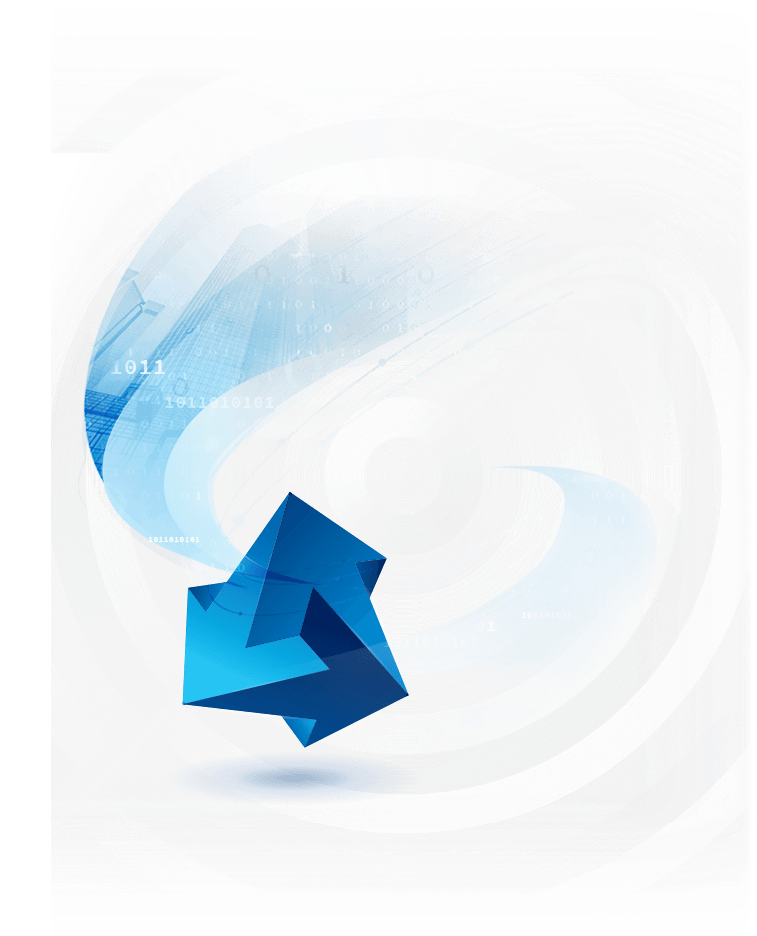
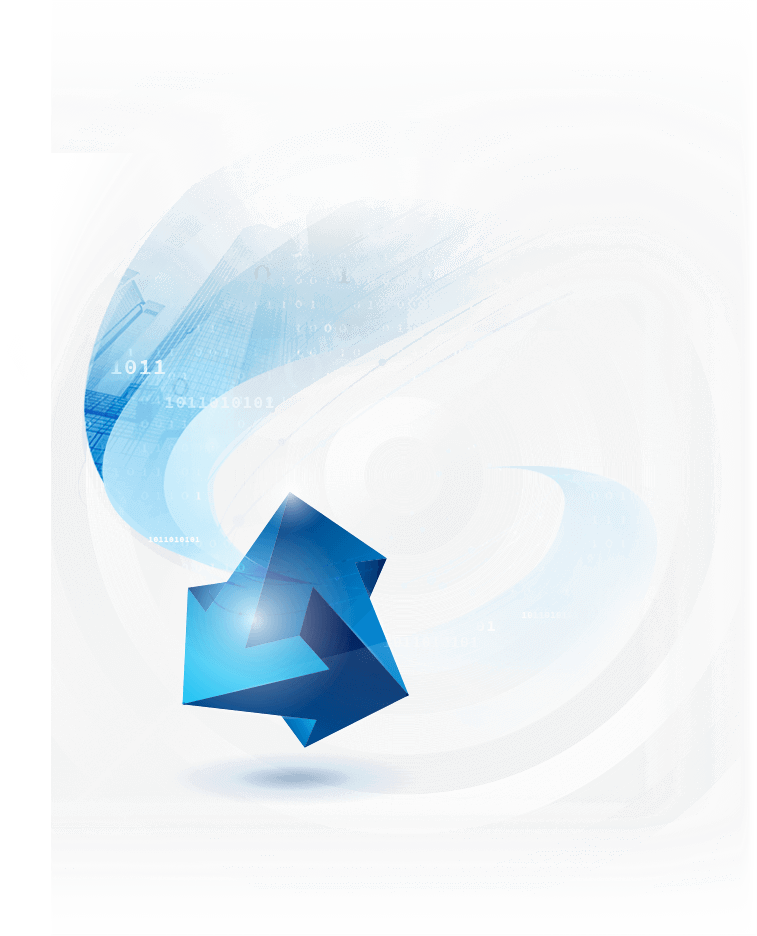
update mag

Changed region(s): [[0.2431, 0.5267, 0.4557, 0.7746]]

diff --git a/dsc/mag/css/mag201909/style.css b/dsc/mag/css/mag201909/style.css
@@ -1,3 +1,3 @@
-@-webkit-keyframes fadeIn{from{opacity:0}to{opacity:1}}@keyframes fadeIn{from{opacity:0}to{opacity:1}}[v-cloak]{display:none}.fade-enter-active,.fade-leave-active{-webkit-transition:opacity .5s;transition:opacity .5s}.fade-enter,.fade-leave-to{opacity:0}.lazyload,.lazyloading{opacity:0}.lazyloaded{opacity:1;-webkit-transition:opacity 1s;transition:opacity 1s}.dg.ac{z-index:99}main{min-width:360px;font-size:18px;line-height:1.6}main *:not(text){font-size:100%}main .container{margin:0 auto;padding:0 15px;max-width:1200px}@media (min-width: 361px){main .container{padding-right:20px;padding-left:20px}}@media (min-width: 1200px){main .container{padding-right:0;padding-left:0}}main .btn{-webkit-transition:all .15s ease-in-out;transition:all .15s ease-in-out}main a:link,main a:visited,main a:hover{color:inherit}main .video-container{position:relative;overflow:hidden;padding-top:56.25%;width:100%;height:0}main .video-container iframe{position:absolute;top:0;left:0;width:100%;height:100%}main .header{overflow:hidden;background-color:#f4f4f4}main .header .container{position:relative;margin:0 auto;padding-top:234px;padding-bottom:45px;max-width:1200px;background:url('../../images/mag201909/header-s.png') no-repeat 50% -205px}@media (min-width: 768px){main .header .container{padding-top:55px;padding-bottom:95px;background-image:url('../../images/mag201909/header-m.png');background-position:calc(50% - 140px) -140px}}@media (min-width: 1200px){main .header .container{padding-bottom:45px;background-image:url('../../images/mag201909/header-bg.png');background-position:0 -290px}}main .header .content{display:-webkit-box;display:-ms-flexbox;display:flex;-webkit-box-orient:vertical;-webkit-box-direction:normal;-ms-flex-direction:column;flex-direction:column;margin:0 auto;-webkit-box-align:center;-ms-flex-align:center;align-items:center}@media (min-width: 768px){main .header .content{max-width:369px;-webkit-transform:translateX(150px);transform:translateX(150px);-webkit-box-align:end;-ms-flex-align:end;align-items:flex-end}}@media (min-width: 1200px){main .header .content{margin-right:0;max-width:427px;-webkit-transform:translateX(0);transform:translateX(0);-webkit-box-align:start;-ms-flex-align:start;align-items:flex-start}}main .header .content-text h2{margin-bottom:13px;letter-spacing:.05em;line-height:1}@media (min-width: 1200px){main .header .content-text h2{font-size:20px}}main .header .content-text h1{width:298px}@media (min-width: 1200px){main .header .content-text h1{width:334px}}main .header .content-text p{margin:1em 0 .5em;color:#2c2321;letter-spacing:.05em;font-size:16px;line-height:1.3}@media (min-width: 768px){main .header .content-text p{margin-top:1.5em;margin-bottom:1em}}main .header .content-text strong{display:block;margin-bottom:40px;color:#e60033;letter-spacing:.01em;font-style:italic;font-size:20px;line-height:1}@media (min-width: 768px){main .header .content-text strong{margin-bottom:50px}}@media (min-width: 1200px){main .header .content-text strong{margin-bottom:60px;font-size:22px}}main .header .content-nav{display:-webkit-box;display:-ms-flexbox;display:flex;margin:0 -2.5px;width:100%;-ms-flex-wrap:wrap;flex-wrap:wrap}@media (min-width: 768px){main .header .content-nav{margin-right:-3.5px;margin-left:-3.5px}}main .header .content-nav a{position:relative;display:block;margin:2.5px;width:calc((100% - 20px) / 4);height:33px;border-radius:3px;background-color:#80d1f8;text-align:center;font-size:15px;line-height:33px}@media (min-width: 1200px){main .header .content-nav a{margin:3.5px;width:calc((100% - 28px) / 4);height:43px;font-size:18px;line-height:43px}}main .header .content-nav a::after{position:absolute;right:0;bottom:0;width:0;height:0;border-width:0 0 14px 14px;border-style:solid;border-color:transparent transparent #005396 transparent;content:''}html.no-mobile main .header a:hover{background-color:#005396;color:#fff}main .carousel1{position:absolute;left:50%;-webkit-transform:translateX(-50%);transform:translateX(-50%)}@media (max-width: 1300px){main .carousel1{position:static;left:auto;-webkit-transform:translateX(0);transform:translateX(0)}}main .carousel1 .swiper-container{padding-right:0;padding-bottom:77px;padding-left:0;max-width:none;width:1800px}@media (max-width: 1300px){main .carousel1 .swiper-container{width:100%}}main .carousel1 .swiper-slide{-webkit-transition:-webkit-transform .4s;transition:-webkit-transform .4s;transition:transform .4s;transition:transform .4s, -webkit-transform .4s;-webkit-transform:scale(0.7);transform:scale(0.7)}@media (max-width: 1300px){main .carousel1 .swiper-slide{padding-right:20px;padding-left:20px;-webkit-transform:none;transform:none}}@media (max-width: 360px){main .carousel1 .swiper-slide{padding-right:15px;padding-left:15px}}main .carousel1 .swiper-slide::before{position:absolute;top:0;right:0;bottom:0;left:0;z-index:1;border-radius:10px;background-color:rgba(13,12,18,0.5);content:'';-webkit-transition:background-color .2s;transition:background-color .2s}@media (max-width: 1300px){main .carousel1 .swiper-slide::before{display:none}}html.no-mobile main .vueSwiper .swiper-slide:hover::before{background-color:rgba(13,12,18,0.3)}main .carousel1 .swiper-slide-active,main .carousel1 .swiper-slide-next+.swiper-slide{cursor:pointer}@media (max-width: 1300px){main .carousel1 .swiper-slide-active,main .carousel1 .swiper-slide-next+.swiper-slide{cursor:default;pointer-events:none}}main .carousel1 .swiper-slide-active{-webkit-transform:scale(0.7) translateX(150px);transform:scale(0.7) translateX(150px);-webkit-transform-origin:100% 50% 0;transform-origin:100% 50% 0}@media (max-width: 1300px){main .carousel1 .swiper-slide-active{-webkit-transform:none;transform:none}}main .carousel1 .swiper-slide-next+.swiper-slide{-webkit-transform:scale(0.7) translateX(-150px);transform:scale(0.7) translateX(-150px);-webkit-transform-origin:0 50% 0;transform-origin:0 50% 0}@media (max-width: 1300px){main .carousel1 .swiper-slide-next+.swiper-slide{-webkit-transform:none;transform:none}}main .carousel1 .swiper-slide-next{position:relative;z-index:1;opacity:1;-webkit-transform:scale(1);transform:scale(1)}main .carousel1 .swiper-slide-next::before{display:none}main .carousel1 .swiper-pagination{bottom:33px;display:-webkit-box;display:-ms-flexbox;display:flex;line-height:14px;-webkit-box-pack:center;-ms-flex-pack:center;justify-content:center}@media (max-width: 1300px){main .carousel1 .swiper-pagination{bottom:45px}}main .carousel1 .swiper-pagination-bullet{margin:0 3px !important;width:14px;height:14px;border-radius:0;background-color:#bbb;opacity:1}@media (max-width: 1300px){main .carousel1 .swiper-pagination-bullet{width:12px;height:12px}}main .carousel1 .swiper-pagination-bullet-active{background-color:#239995}main .carousel1 .swiper-button-prev,main .carousel1 .swiper-button-next{width:36px;background-size:contain;-webkit-transform:translateY(-38.5px);transform:translateY(-38.5px)}@media (max-width: 1300px){main .carousel1 .swiper-button-prev,main .carousel1 .swiper-button-next{width:27px}}main .carousel1 .swiper-button-prev{left:265px;background-image:url('../../images/mag201909/carousel-prev.svg')}@media (max-width: 1300px){main .carousel1 .swiper-button-prev{left:0}}main .carousel1 .swiper-button-next{right:265px;background-image:url('../../images/mag201909/carousel-next.svg')}@media (max-width: 1300px){main .carousel1 .swiper-button-next{right:0}}main .carousel1 .slideItem{display:-webkit-box;display:-ms-flexbox;display:flex;margin:0 auto;padding:40px;max-width:600px;border-radius:10px;background-color:#239995;-webkit-box-pack:center;-ms-flex-pack:center;justify-content:center}@media (max-width: 1300px){main .carousel1 .slideItem{padding:22px}}main .carousel1 .slideItem-img{-ms-flex-negative:0;flex-shrink:0}@media (max-width: 1300px){main .carousel1 .slideItem-img{width:100px}}main .carousel1 .slideItem-text{padding-left:6px}main .carousel1 .slideItem p{font-size:22px;line-height:30px}@media (max-width: 1300px){main .carousel1 .slideItem p{font-size:16px;line-height:20px}}main .carousel1 .slideItem p:first-child{margin-bottom:1em;color:#ffe402;font-weight:bold}main .carousel1 .slideItem p:last-child{color:#fff}main .carousel2 .swiper-container{padding-bottom:97px}@media (min-width: 1200px){main .carousel2 .swiper-container{padding-bottom:0}}@media (min-width: 1200px){main .carousel2 .swiper-wrapper{-ms-flex-wrap:wrap;flex-wrap:wrap;-webkit-box-pack:justify;-ms-flex-pack:justify;justify-content:space-between}}main .carousel2 .swiper-slide{padding:0 15px;-webkit-transition:-webkit-transform .5s;transition:-webkit-transform .5s;transition:transform .5s;transition:transform .5s, -webkit-transform .5s;-webkit-transform:translate3d(0, 100px, 0) scale(0.6);transform:translate3d(0, 100px, 0) scale(0.6)}@media (min-width: 361px){main .carousel2 .swiper-slide{padding-right:20px;padding-left:20px}}@media (min-width: 1200px){main .carousel2 .swiper-slide{margin-top:20px;margin-bottom:20px;padding-right:0;padding-left:0;width:520px;height:650px}main .carousel2 .swiper-slide:nth-child(-n+2){margin-top:0}main .carousel2 .swiper-slide:nth-last-child(-n+2){margin-bottom:0}main .carousel2 .swiper-slide:nth-child(1){margin-top:300px}main .carousel2 .swiper-slide:nth-child(even):not(:nth-child(2)){margin-top:-280px}}main .carousel2 .swiper-slide.active{-webkit-transform:translate3d(0, 0, 0) scale(1);transform:translate3d(0, 0, 0) scale(1)}main .carousel2 .swiper-pagination{bottom:63px;display:-webkit-box;display:-ms-flexbox;display:flex;line-height:14px;-webkit-box-pack:center;-ms-flex-pack:center;justify-content:center}@media (min-width: 1200px){main .carousel2 .swiper-pagination{display:none}}main .carousel2 .swiper-pagination-bullet{margin:0 3px !important;width:14px;height:14px;border-radius:0;background-color:#bbb;opacity:1}main .carousel2 .swiper-pagination-bullet-active{background-color:#0083be}main .carousel2 .swiper-button-prev,main .carousel2 .swiper-button-next{width:27px;background-size:contain;-webkit-transform:translateY(-48.5px);transform:translateY(-48.5px)}@media (min-width: 1200px){main .carousel2 .swiper-button-prev,main .carousel2 .swiper-button-next{display:none}}main .carousel2 .swiper-button-prev{left:0;background-image:url('../../images/mag201909/carousel-prev.svg')}main .carousel2 .swiper-button-next{right:0;background-image:url('../../images/mag201909/carousel-next.svg')}main .carousel2 .slideItem{margin:0 auto;max-width:520px;height:100%;background-color:#0083be}main .carousel2 .slideItem-text{padding:16px 20px 28px}@media (min-width: 1200px){main .carousel2 .slideItem-text{padding:30px}}main .carousel2 .slideItem h2{display:inline-block;margin-bottom:.5em;padding:0 5px;border:1px solid #58e2e0;color:#58e2e0;font-size:14px;line-height:16px}@media (min-width: 1200px){main .carousel2 .slideItem h2{padding-right:7px;padding-left:7px;font-size:16px;line-height:23px}}main .carousel2 .slideItem h1{margin-bottom:.7em;color:#fedd42;letter-spacing:.01em;font-weight:bold;font-size:20px;line-height:24px}@media (min-width: 1200px){main .carousel2 .slideItem h1{font-size:24px;line-height:30px}}main .carousel2 .slideItem p{margin-bottom:1em;color:#fff;letter-spacing:.01em;font-size:16px;line-height:20px}@media (min-width: 1200px){main .carousel2 .slideItem p{font-size:18px;line-height:26px}}main .carousel2 .slideItem a{display:block;height:30px;border-radius:0;background-color:#fedd42;color:#3183a9;text-align:center;line-height:30px;width:70px;color:#3183a9;border:1px solid #fedd42;letter-spacing:.01em;font-size:14px;line-height:28px}main .carousel2 .slideItem a:link,main .carousel2 .slideItem a:visited{color:#3183a9}@media (min-width: 1200px){main .carousel2 .slideItem a{width:100px;font-size:18px}}html.no-mobile main .carousel2 .slideItem a:hover{background-color:transparent;color:#fedd42}main .articles{overflow:hidden}main .articles section{display:-webkit-box;display:-ms-flexbox;display:flex;-webkit-box-orient:vertical;-webkit-box-direction:normal;-ms-flex-direction:column;flex-direction:column;margin:0 auto;max-width:740px;background-position:50% -40px;background-repeat:no-repeat;opacity:0;-webkit-transition:opacity 1s, -webkit-transform .7s;transition:opacity 1s, -webkit-transform .7s;transition:transform .7s, opacity 1s;transition:transform .7s, opacity 1s, -webkit-transform .7s}@media (min-width: 1200px){main .articles section{-webkit-box-orient:horizontal;-webkit-box-direction:normal;-ms-flex-direction:row;flex-direction:row;max-width:none;height:380px;background-position:calc(50% - 590px) 0;-webkit-box-pack:center;-ms-flex-pack:center;justify-content:center}main .articles section:nth-of-type(odd){-webkit-transform:translateX(-100%);transform:translateX(-100%)}main .articles section:nth-of-type(even){background-position-x:calc(50% + 590px);-webkit-transform:translateX(100%);transform:translateX(100%)}}main .articles section.active{opacity:1;-webkit-transform:translateX(0);transform:translateX(0)}main .articles section header{height:300px}@media (min-width: 1200px){main .articles section header{width:410px;height:auto}}@media (min-width: 1200px){main .articles section:nth-of-type(even) header{-webkit-box-ordinal-group:2;-ms-flex-order:1;order:1}}main .articles section header .container{display:-webkit-box;display:-ms-flexbox;display:flex;-webkit-box-orient:vertical;-webkit-box-direction:normal;-ms-flex-direction:column;flex-direction:column;height:100%;-webkit-box-pack:center;-ms-flex-pack:center;justify-content:center}@media (min-width: 1200px){main .articles section:nth-of-type(odd) header .container{padding-right:120px}main .articles section:nth-of-type(even) header .container{padding-left:105px}}main .articles section header h1{color:#f6ff00;font-weight:bold;font-size:26px;line-height:1}@media (min-width: 1200px){main .articles section header h1{font-size:30px}}main .articles section header p{margin-top:1em;color:#fff;line-height:26px}main .articles .list{padding-top:20px;padding-bottom:60px;background-color:#eee}@media (min-width: 1200px){main .articles .list{padding-top:35px;padding-bottom:35px;width:790px}}main .articles .list .container{display:-webkit-box;display:-ms-flexbox;display:flex;-ms-flex-wrap:wrap;flex-wrap:wrap}@media (min-width: 1200px){main .articles .list .container{margin:-10px -15px;height:100%;-ms-flex-line-pack:center;align-content:center}}main .articles .list li{width:100%}@media (min-width: 1200px){main .articles .list li{padding:10px 15px;width:50%}}main .articles .list li+li{margin-top:10px}@media (min-width: 1200px){main .articles .list li+li{margin-top:0}}main .articles .list a{display:-webkit-box;display:-ms-flexbox;display:flex}html.no-mobile main .articles .list a:hover .list-title{text-decoration:underline}main .articles .list-img{-ms-flex-negative:0;flex-shrink:0}main .articles .list-text{padding-left:5px}main .articles .list-text br{display:none}@media (min-width: 1200px){main .articles .list-text br{display:block}}main .articles .list-subtitle{margin-bottom:.5em;font-size:14px;line-height:18px}@media (min-width: 1200px){main .articles .list-subtitle{font-size:16px;line-height:20px}}main .articles .list-subtitle:empty{display:none}main .articles .list-title{color:#d40000;line-height:24px}main .section1{position:relative;overflow:hidden;padding-top:60px;padding-bottom:475px;background-color:#b1e2e8}@media (max-width: 1300px){main .section1{padding-top:40px;padding-bottom:0}}main .section1 hgroup{margin-bottom:1.5em;text-align:center}@media (max-width: 1300px){main .section1 hgroup{margin-bottom:1em}}main .section1 h2{color:#2c2c2c;font-size:30px;line-height:1}@media (max-width: 1300px){main .section1 h2{font-size:18px}}main .section1 h1{color:#1a2538;font-weight:bold;font-size:40px}@media (max-width: 1300px){main .section1 h1{font-size:26px}}main .section2{padding-top:40px;padding-bottom:50px;background-color:#1a2538}@media (min-width: 1200px){main .section2{padding-top:55px;padding-bottom:65px;background-image:url('../../images/mag201909/section2-bg-top.png'),url('../../images/mag201909/section2-bg-bottom.png');background-position:calc(50% - 350px) -350px,calc(50% + 350px) 100%;background-repeat:no-repeat}}main .section2>.container{padding-right:0;padding-left:0;max-width:none}@media (min-width: 1200px){main .section2>.container{position:relative;padding-right:30px;padding-left:30px;max-width:1200px}}main .section2>.container>h1{margin-bottom:30px;color:#f6ff00;text-align:center;letter-spacing:.05em;font-weight:bold;font-size:26px;line-height:1}@media (min-width: 1200px){main .section2>.container>h1{position:absolute;margin-top:88px;margin-bottom:0;width:520px;font-size:50px}}@media (min-width: 1200px){main .section2 .toolbar{position:absolute;right:20px;bottom:60px;z-index:1;max-width:none;width:520px}}@media (min-width: 1200px){main .section2 .toolbar .container{-ms-flex-pack:distribute;justify-content:space-around}main .section2 .toolbar .container::before,main .section2 .toolbar .container::after{content:''}}main .section3{background-color:#eee}main .section3>header{padding-top:32px;padding-bottom:40px}@media (min-width: 769px){main .section3>header{padding-top:40px;padding-bottom:34px}}main .section3>header .container{display:-webkit-box;display:-ms-flexbox;display:flex;-webkit-box-orient:vertical;-webkit-box-direction:normal;-ms-flex-direction:column;flex-direction:column;-webkit-box-align:center;-ms-flex-align:center;align-items:center}@media (min-width: 769px){main .section3>header .container{-webkit-box-orient:horizontal;-webkit-box-direction:normal;-ms-flex-direction:row;flex-direction:row;-webkit-box-align:start;-ms-flex-align:start;align-items:flex-start}}@media (min-width: 1200px){main .section3>header .container{padding-right:30px;padding-left:30px}}main .section3>header .img{-webkit-transform:translateX(-35px);transform:translateX(-35px)}@media (min-width: 769px){main .section3>header .img{-webkit-transform:translateX(-20px);transform:translateX(-20px);-ms-flex-negative:0;flex-shrink:0}}@media (min-width: 1200px){main .section3>header .img{margin-right:60px}}@media (min-width: 769px){main .section3>header .text{margin-right:2em;-webkit-box-flex:1;-ms-flex-positive:1;flex-grow:1}}main .section3>header h1{margin-top:1em;margin-bottom:.5em;color:#1a2538;font-weight:bold;font-size:26px;line-height:30px}@media (min-width: 769px){main .section3>header h1{margin-top:.7em;margin-bottom:.2em;font-size:40px;line-height:50px}}main .section3>header p{color:#2c2c2c;line-height:26px}main .section3>header p+p{margin-top:.5em;margin-bottom:1.5em}@media (min-width: 769px){main .section3>header .link{position:relative;margin-top:90px;-ms-flex-negative:0;flex-shrink:0}main .section3>header .link::before{height:151px;background-image:url('../../images/mag201909/robot2.png');width:239px;position:absolute;right:0;bottom:40px;content:''}}main .section3>header a{display:block;height:60px;border-radius:6px;background-color:#ff4b45;color:#fff;text-align:center;line-height:60px;width:210px;color:#fff;position:relative;font-size:20px}main .section3>header a:link,main .section3>header a:visited{color:#fff}html.no-mobile main .section3 header a:hover{background-color:#ab0a1d}main .ad{background-color:#000}main .ad a{display:block}main .ad img{display:block;margin:0 auto}main .footer{display:-webkit-box;display:-ms-flexbox;display:flex;height:150px;background-color:#1a2538;-webkit-box-align:center;-ms-flex-align:center;align-items:center}@media (min-width: 769px){main .footer{height:200px}}main .footer .toolbar{width:100%}
+@-webkit-keyframes fadeIn{from{opacity:0}to{opacity:1}}@keyframes fadeIn{from{opacity:0}to{opacity:1}}[v-cloak]{display:none}.fade-enter-active,.fade-leave-active{-webkit-transition:opacity .5s;transition:opacity .5s}.fade-enter,.fade-leave-to{opacity:0}.lazyload,.lazyloading{opacity:0}.lazyloaded{opacity:1;-webkit-transition:opacity 1s;transition:opacity 1s}.dg.ac{z-index:99}main{min-width:360px;font-size:18px;line-height:1.6}main *:not(text){font-size:100%}main .container{margin:0 auto;padding:0 15px;max-width:1200px}@media (min-width: 361px){main .container{padding-right:20px;padding-left:20px}}@media (min-width: 1200px){main .container{padding-right:0;padding-left:0}}main .btn{-webkit-transition:all .15s ease-in-out;transition:all .15s ease-in-out}main a:link,main a:visited,main a:hover{color:inherit}main .video-container{position:relative;overflow:hidden;padding-top:56.25%;width:100%;height:0}main .video-container iframe{position:absolute;top:0;left:0;width:100%;height:100%}main .header{overflow:hidden;background-color:#f4f4f4}main .header .container{position:relative;margin:0 auto;padding-top:234px;padding-bottom:45px;max-width:1200px;background:url('../../images/mag201909/header-s.png') no-repeat 50% -205px}@media (min-width: 768px){main .header .container{padding-top:55px;padding-bottom:95px;background-image:url('../../images/mag201909/header-m.png');background-position:calc(50% - 140px) -140px}}@media (min-width: 1200px){main .header .container{padding-bottom:45px;background-image:url('../../images/mag201909/header-bg.png');background-position:-50px -290px}}main .header .content{display:-webkit-box;display:-ms-flexbox;display:flex;-webkit-box-orient:vertical;-webkit-box-direction:normal;-ms-flex-direction:column;flex-direction:column;margin:0 auto;-webkit-box-align:center;-ms-flex-align:center;align-items:center}@media (min-width: 768px){main .header .content{max-width:369px;-webkit-transform:translateX(150px);transform:translateX(150px);-webkit-box-align:end;-ms-flex-align:end;align-items:flex-end}}@media (min-width: 1200px){main .header .content{margin-right:80px;max-width:427px;-webkit-transform:translateX(0);transform:translateX(0);-webkit-box-align:start;-ms-flex-align:start;align-items:flex-start}}main .header .content-text h2{margin-bottom:13px;letter-spacing:.05em;line-height:1}@media (min-width: 1200px){main .header .content-text h2{font-size:20px}}main .header .content-text h1{width:298px}@media (min-width: 1200px){main .header .content-text h1{width:334px}}main .header .content-text p{margin:1em 0 .5em;color:#2c2321;letter-spacing:.05em;font-size:16px;line-height:1.3}@media (min-width: 768px){main .header .content-text p{margin-top:1.5em;margin-bottom:1em}}main .header .content-text strong{display:block;margin-bottom:40px;color:#e60033;letter-spacing:.01em;font-style:italic;font-size:20px;line-height:1}@media (min-width: 768px){main .header .content-text strong{margin-bottom:50px}}@media (min-width: 1200px){main .header .content-text strong{margin-bottom:60px;font-size:22px}}main .header .content-nav{display:-webkit-box;display:-ms-flexbox;display:flex;margin:0 -2.5px;width:100%;-ms-flex-wrap:wrap;flex-wrap:wrap}@media (min-width: 768px){main .header .content-nav{margin-right:-3.5px;margin-left:-3.5px}}main .header .content-nav a{position:relative;display:block;margin:2.5px;width:calc((100% - 20px) / 4);height:33px;border-radius:3px;background-color:#80d1f8;text-align:center;font-size:15px;line-height:33px}@media (min-width: 1200px){main .header .content-nav a{margin:3.5px;width:calc((100% - 28px) / 4);height:43px;font-size:18px;line-height:43px}}main .header .content-nav a::after{position:absolute;right:0;bottom:0;width:0;height:0;border-width:0 0 14px 14px;border-style:solid;border-color:transparent transparent #005396 transparent;content:''}html.no-mobile main .header a:hover{background-color:#005396;color:#fff}main .carousel1{position:absolute;left:50%;-webkit-transform:translateX(-50%);transform:translateX(-50%)}@media (max-width: 1300px){main .carousel1{position:static;left:auto;-webkit-transform:translateX(0);transform:translateX(0)}}main .carousel1 .swiper-container{padding-right:0;padding-bottom:77px;padding-left:0;max-width:none;width:1800px}@media (max-width: 1300px){main .carousel1 .swiper-container{width:100%}}main .carousel1 .swiper-slide{height:auto;-webkit-transition:-webkit-transform .4s;transition:-webkit-transform .4s;transition:transform .4s;transition:transform .4s, -webkit-transform .4s;-webkit-transform:scale(0.7);transform:scale(0.7)}@media (max-width: 1300px){main .carousel1 .swiper-slide{padding-right:20px;padding-left:20px;-webkit-transform:none;transform:none}}@media (max-width: 360px){main .carousel1 .swiper-slide{padding-right:15px;padding-left:15px}}main .carousel1 .swiper-slide::before{position:absolute;top:0;right:0;bottom:0;left:0;z-index:1;border-radius:10px;background-color:rgba(13,12,18,0.5);content:'';-webkit-transition:background-color .2s;transition:background-color .2s}@media (max-width: 1300px){main .carousel1 .swiper-slide::before{display:none}}html.no-mobile main .vueSwiper .swiper-slide:hover::before{background-color:rgba(13,12,18,0.3)}main .carousel1 .swiper-slide-active,main .carousel1 .swiper-slide-next+.swiper-slide{cursor:pointer}@media (max-width: 1300px){main .carousel1 .swiper-slide-active,main .carousel1 .swiper-slide-next+.swiper-slide{cursor:default;pointer-events:none}}main .carousel1 .swiper-slide-active{-webkit-transform:scale(0.7) translateX(150px);transform:scale(0.7) translateX(150px);-webkit-transform-origin:100% 50% 0;transform-origin:100% 50% 0}@media (max-width: 1300px){main .carousel1 .swiper-slide-active{-webkit-transform:none;transform:none}}main .carousel1 .swiper-slide-next+.swiper-slide{-webkit-transform:scale(0.7) translateX(-150px);transform:scale(0.7) translateX(-150px);-webkit-transform-origin:0 50% 0;transform-origin:0 50% 0}@media (max-width: 1300px){main .carousel1 .swiper-slide-next+.swiper-slide{-webkit-transform:none;transform:none}}main .carousel1 .swiper-slide-next{position:relative;z-index:1;opacity:1;-webkit-transform:scale(1);transform:scale(1)}main .carousel1 .swiper-slide-next::before{display:none}main .carousel1 .swiper-pagination{bottom:33px;display:-webkit-box;display:-ms-flexbox;display:flex;line-height:14px;-webkit-box-pack:center;-ms-flex-pack:center;justify-content:center}@media (max-width: 1300px){main .carousel1 .swiper-pagination{bottom:45px}}main .carousel1 .swiper-pagination-bullet{margin:0 3px !important;width:14px;height:14px;border-radius:0;background-color:#bbb;opacity:1}@media (max-width: 1300px){main .carousel1 .swiper-pagination-bullet{width:12px;height:12px}}main .carousel1 .swiper-pagination-bullet-active{background-color:#239995}main .carousel1 .swiper-button-prev,main .carousel1 .swiper-button-next{width:36px;background-size:contain;-webkit-transform:translateY(-38.5px);transform:translateY(-38.5px)}@media (max-width: 1300px){main .carousel1 .swiper-button-prev,main .carousel1 .swiper-button-next{width:27px}}main .carousel1 .swiper-button-prev{left:265px;background-image:url('../../images/mag201909/carousel-prev.svg')}@media (max-width: 1300px){main .carousel1 .swiper-button-prev{left:0}}main .carousel1 .swiper-button-next{right:265px;background-image:url('../../images/mag201909/carousel-next.svg')}@media (max-width: 1300px){main .carousel1 .swiper-button-next{right:0}}main .carousel1 .slideItem{display:-webkit-box;display:-ms-flexbox;display:flex;margin:0 auto;padding:40px;max-width:600px;height:100%;border-radius:10px;background-color:#239995;-webkit-box-pack:center;-ms-flex-pack:center;justify-content:center}@media (max-width: 1300px){main .carousel1 .slideItem{padding:22px}}main .carousel1 .slideItem-img{-ms-flex-negative:0;flex-shrink:0}@media (max-width: 1300px){main .carousel1 .slideItem-img{width:100px}}main .carousel1 .slideItem-text{padding-left:6px}main .carousel1 .slideItem p{font-size:22px;line-height:30px}@media (max-width: 1300px){main .carousel1 .slideItem p{font-size:16px;line-height:20px}}main .carousel1 .slideItem p:first-child{margin-bottom:1em;color:#ffe402;font-weight:bold}main .carousel1 .slideItem p:last-child{color:#fff}main .carousel2 .swiper-container{padding-bottom:97px}@media (min-width: 1200px){main .carousel2 .swiper-container{padding-bottom:0}}@media (min-width: 1200px){main .carousel2 .swiper-wrapper{-ms-flex-wrap:wrap;flex-wrap:wrap;-webkit-box-pack:justify;-ms-flex-pack:justify;justify-content:space-between}}main .carousel2 .swiper-slide{height:auto;padding:0 15px;-webkit-transition:-webkit-transform .5s;transition:-webkit-transform .5s;transition:transform .5s;transition:transform .5s, -webkit-transform .5s;-webkit-transform:translate3d(0, 100px, 0) scale(0.6);transform:translate3d(0, 100px, 0) scale(0.6)}@media (min-width: 361px){main .carousel2 .swiper-slide{padding-right:20px;padding-left:20px}}@media (min-width: 1200px){main .carousel2 .swiper-slide{margin-top:20px;margin-bottom:20px;padding-right:0;padding-left:0;width:520px;height:650px}main .carousel2 .swiper-slide:nth-child(-n+2){margin-top:0}main .carousel2 .swiper-slide:nth-last-child(-n+2){margin-bottom:0}main .carousel2 .swiper-slide:nth-child(1){margin-top:300px}main .carousel2 .swiper-slide:nth-child(even):not(:nth-child(2)){margin-top:-280px}}main .carousel2 .swiper-slide.active{-webkit-transform:translate3d(0, 0, 0) scale(1);transform:translate3d(0, 0, 0) scale(1)}main .carousel2 .swiper-pagination{bottom:63px;display:-webkit-box;display:-ms-flexbox;display:flex;line-height:14px;-webkit-box-pack:center;-ms-flex-pack:center;justify-content:center}@media (min-width: 1200px){main .carousel2 .swiper-pagination{display:none}}main .carousel2 .swiper-pagination-bullet{margin:0 3px !important;width:14px;height:14px;border-radius:0;background-color:#bbb;opacity:1}main .carousel2 .swiper-pagination-bullet-active{background-color:#0083be}main .carousel2 .swiper-button-prev,main .carousel2 .swiper-button-next{width:27px;background-size:contain;-webkit-transform:translateY(-48.5px);transform:translateY(-48.5px)}@media (min-width: 1200px){main .carousel2 .swiper-button-prev,main .carousel2 .swiper-button-next{display:none}}main .carousel2 .swiper-button-prev{left:0;background-image:url('../../images/mag201909/carousel-prev.svg')}main .carousel2 .swiper-button-next{right:0;background-image:url('../../images/mag201909/carousel-next.svg')}main .carousel2 .slideItem{margin:0 auto;max-width:520px;height:100%;background-color:#0083be}main .carousel2 .slideItem-text{padding:16px 20px 28px}@media (min-width: 1200px){main .carousel2 .slideItem-text{padding:30px}}main .carousel2 .slideItem h2{display:inline-block;margin-bottom:.5em;padding:0 5px;border:1px solid #58e2e0;color:#58e2e0;font-size:14px;line-height:16px}@media (min-width: 1200px){main .carousel2 .slideItem h2{padding-right:7px;padding-left:7px;font-size:16px;line-height:23px}}main .carousel2 .slideItem h1{margin-bottom:.7em;color:#fedd42;letter-spacing:.01em;font-weight:bold;font-size:20px;line-height:24px}@media (min-width: 1200px){main .carousel2 .slideItem h1{font-size:24px;line-height:30px}}main .carousel2 .slideItem p{margin-bottom:1em;color:#fff;letter-spacing:.01em;font-size:16px;line-height:20px}@media (min-width: 1200px){main .carousel2 .slideItem p{font-size:18px;line-height:26px}}main .carousel2 .slideItem a{display:block;height:30px;border-radius:0;background-color:#fedd42;color:#3183a9;text-align:center;line-height:30px;width:70px;color:#3183a9;border:1px solid #fedd42;letter-spacing:.01em;font-size:14px;line-height:28px}main .carousel2 .slideItem a:link,main .carousel2 .slideItem a:visited{color:#3183a9}@media (min-width: 1200px){main .carousel2 .slideItem a{width:100px;font-size:18px}}html.no-mobile main .carousel2 .slideItem a:hover{background-color:transparent;color:#fedd42}main .articles{overflow:hidden}main .articles section{display:-webkit-box;display:-ms-flexbox;display:flex;-webkit-box-orient:vertical;-webkit-box-direction:normal;-ms-flex-direction:column;flex-direction:column;margin:0 auto;max-width:740px;background-position:50% -40px;background-repeat:no-repeat;opacity:0;-webkit-transition:opacity 1s, -webkit-transform .7s;transition:opacity 1s, -webkit-transform .7s;transition:transform .7s, opacity 1s;transition:transform .7s, opacity 1s, -webkit-transform .7s}@media (min-width: 1200px){main .articles section{-webkit-box-orient:horizontal;-webkit-box-direction:normal;-ms-flex-direction:row;flex-direction:row;max-width:none;height:380px;background-position:calc(50% - 590px) 0;-webkit-box-pack:center;-ms-flex-pack:center;justify-content:center}main .articles section:nth-of-type(odd){-webkit-transform:translateX(-100%);transform:translateX(-100%)}main .articles section:nth-of-type(even){background-position-x:calc(50% + 590px);-webkit-transform:translateX(100%);transform:translateX(100%)}}main .articles section.active{opacity:1;-webkit-transform:translateX(0);transform:translateX(0)}main .articles section header{height:300px}@media (min-width: 1200px){main .articles section header{width:410px;height:auto}}@media (min-width: 1200px){main .articles section:nth-of-type(even) header{-webkit-box-ordinal-group:2;-ms-flex-order:1;order:1}}main .articles section header .container{display:-webkit-box;display:-ms-flexbox;display:flex;-webkit-box-orient:vertical;-webkit-box-direction:normal;-ms-flex-direction:column;flex-direction:column;height:100%;-webkit-box-pack:center;-ms-flex-pack:center;justify-content:center}@media (min-width: 1200px){main .articles section:nth-of-type(odd) header .container{padding-right:120px}main .articles section:nth-of-type(even) header .container{padding-left:105px}}main .articles section header h1{color:#f6ff00;font-weight:bold;font-size:26px;line-height:1}@media (min-width: 1200px){main .articles section header h1{font-size:30px}}main .articles section header p{margin-top:1em;color:#fff;line-height:26px}main .articles .list{padding-top:20px;padding-bottom:60px;background-color:#eee}@media (min-width: 1200px){main .articles .list{padding-top:35px;padding-bottom:35px;width:790px}}main .articles .list .container{display:-webkit-box;display:-ms-flexbox;display:flex;-ms-flex-wrap:wrap;flex-wrap:wrap}@media (min-width: 1200px){main .articles .list .container{margin:-10px -15px;height:100%;-ms-flex-line-pack:center;align-content:center}}main .articles .list li{width:100%}@media (min-width: 1200px){main .articles .list li{padding:10px 15px;width:50%}}main .articles .list li+li{margin-top:10px}@media (min-width: 1200px){main .articles .list li+li{margin-top:0}}main .articles .list a{display:-webkit-box;display:-ms-flexbox;display:flex}html.no-mobile main .articles .list a:hover .list-title{text-decoration:underline}main .articles .list-img{-ms-flex-negative:0;flex-shrink:0}main .articles .list-text{padding-left:5px}main .articles .list-text br{display:none}@media (min-width: 1200px){main .articles .list-text br{display:block}}main .articles .list-subtitle{margin-bottom:.5em;font-size:14px;line-height:18px}@media (min-width: 1200px){main .articles .list-subtitle{font-size:16px;line-height:20px}}main .articles .list-subtitle:empty{display:none}main .articles .list-title{color:#d40000;line-height:24px}main .section1{position:relative;overflow:hidden;padding-top:60px;padding-bottom:475px;background-color:#b1e2e8}@media (max-width: 1300px){main .section1{padding-top:40px;padding-bottom:0}}main .section1 hgroup{margin-bottom:1.5em;text-align:center}@media (max-width: 1300px){main .section1 hgroup{margin-bottom:1em}}main .section1 h2{color:#2c2c2c;font-size:30px;line-height:1}@media (max-width: 1300px){main .section1 h2{font-size:18px}}main .section1 h1{color:#1a2538;font-weight:bold;font-size:40px}@media (max-width: 1300px){main .section1 h1{font-size:26px}}main .section2{padding-top:40px;padding-bottom:50px;background-color:#1a2538}@media (min-width: 1200px){main .section2{padding-top:55px;padding-bottom:65px;background-image:url('../../images/mag201909/section2-bg-top.png'),url('../../images/mag201909/section2-bg-bottom.png');background-position:calc(50% - 350px) -350px,calc(50% + 350px) 100%;background-repeat:no-repeat}}main .section2>.container{padding-right:0;padding-left:0;max-width:none}@media (min-width: 1200px){main .section2>.container{position:relative;padding-right:30px;padding-left:30px;max-width:1200px}}main .section2>.container>h1{margin-bottom:30px;color:#f6ff00;text-align:center;letter-spacing:.05em;font-weight:bold;font-size:26px;line-height:1}@media (min-width: 1200px){main .section2>.container>h1{position:absolute;margin-top:88px;margin-bottom:0;width:520px;font-size:50px}}@media (min-width: 1200px){main .section2 .toolbar{position:absolute;right:20px;bottom:60px;z-index:1;max-width:none;width:520px}}@media (min-width: 1200px){main .section2 .toolbar .container{-ms-flex-pack:distribute;justify-content:space-around}main .section2 .toolbar .container::before,main .section2 .toolbar .container::after{content:''}}main .section3{background-color:#eee}main .section3>header{padding-top:32px;padding-bottom:40px}@media (min-width: 769px){main .section3>header{padding-top:40px;padding-bottom:34px}}main .section3>header .container{display:-webkit-box;display:-ms-flexbox;display:flex;-webkit-box-orient:vertical;-webkit-box-direction:normal;-ms-flex-direction:column;flex-direction:column;-webkit-box-align:center;-ms-flex-align:center;align-items:center}@media (min-width: 769px){main .section3>header .container{-webkit-box-orient:horizontal;-webkit-box-direction:normal;-ms-flex-direction:row;flex-direction:row;-webkit-box-align:start;-ms-flex-align:start;align-items:flex-start}}@media (min-width: 1200px){main .section3>header .container{padding-right:30px;padding-left:30px}}main .section3>header .img{-webkit-transform:translateX(-35px);transform:translateX(-35px)}@media (min-width: 769px){main .section3>header .img{-webkit-transform:translateX(-20px);transform:translateX(-20px);-ms-flex-negative:0;flex-shrink:0}}@media (min-width: 1200px){main .section3>header .img{margin-right:60px}}@media (min-width: 769px){main .section3>header .text{margin-right:2em;-webkit-box-flex:1;-ms-flex-positive:1;flex-grow:1}}main .section3>header h1{margin-top:1em;margin-bottom:.5em;color:#1a2538;font-weight:bold;font-size:26px;line-height:30px}@media (min-width: 769px){main .section3>header h1{margin-top:.7em;margin-bottom:.2em;font-size:40px;line-height:50px}}main .section3>header p{color:#2c2c2c;line-height:26px}main .section3>header p+p{margin-top:.5em;margin-bottom:1.5em}@media (min-width: 769px){main .section3>header .link{position:relative;margin-top:90px;-ms-flex-negative:0;flex-shrink:0}main .section3>header .link::before{height:151px;background-image:url('../../images/mag201909/robot2.png');width:239px;position:absolute;right:0;bottom:40px;content:''}}main .section3>header a{display:block;height:60px;border-radius:6px;background-color:#ff4b45;color:#fff;text-align:center;line-height:60px;width:210px;color:#fff;position:relative;font-size:20px}main .section3>header a:link,main .section3>header a:visited{color:#fff}html.no-mobile main .section3 header a:hover{background-color:#ab0a1d}main .ad{background-color:#000}main .ad a{display:block}main .ad img{display:block;margin:0 auto}main .footer{display:-webkit-box;display:-ms-flexbox;display:flex;height:150px;background-color:#1a2538;-webkit-box-align:center;-ms-flex-align:center;align-items:center}@media (min-width: 769px){main .footer{height:200px}}main .footer .toolbar{width:100%}
 
 /*# sourceMappingURL=style.css.map */

diff --git a/dsc/mag/components/mag201909/robot.vue b/dsc/mag/components/mag201909/robot.vue
@@ -13,6 +13,7 @@
 module.exports = {
     data: function () {
         return {
+            debug: false,
             active: false,
             sec: 0,
             isHover: false,
@@ -25,10 +26,12 @@ module.exports = {
                 .then(function (res) { return res.text() })
                 .then(function (res) {
                     this.$el.innerHTML = res;
+                    if (this.debug) this.active = true;
                     this.setTimer();
                 }.bind(this));
         },
         setTimer: function () {
+            if (this.debug) return;
             clearTimeout(this.timer);
             this.timer = setTimeout(function () {
                 if (this.sec < 7) {
@@ -64,34 +67,50 @@ module.exports = {
     left: 0;
     z-index: 1;
     width: 370px;
-    height: 300px;
+    height: 370px;
     transition: transform 1s;
-    transform: translateX(-100%) rotate(30deg);
+    transform: translateX(-100%);
 }
 .robot.active {
-    transform: translateX(-100px) rotate(30deg);
+    transform: translateX(-100px);
 }
-.robot.active [data-name="hand"] {
-    transform-origin: 254px 171px;
-    animation: handAn 0.5s 1s infinite alternate;
+.robot [data-name="arm"] {
+    transform-origin: 202px 160px;
+}
+.robot.active [data-name="arm"] {
+    animation: armAn 0.5s 1s infinite alternate;
+}
+.robot [data-name="lower-arm"] {
+    transform-origin: 252px 212px;
+}
+.robot.active [data-name="lower-arm"] {
+    animation: lowerArmAn 0.5s 1s infinite alternate;
 }
 .robot.active [data-name="ball"] {
     animation: ballAn 0.5s 1s infinite alternate ease-out;
 }
-@keyframes handAn {
+@keyframes armAn {
     from {
         transform: rotate(0);
     }
     to {
-        transform: rotate(20deg);
+        transform: rotate(-35deg);
+    }
+}
+@keyframes lowerArmAn {
+    from {
+        transform: rotate(35deg);
+    }
+    to {
+        transform: rotate(0);
     }
 }
 @keyframes ballAn {
     from {
-        transform: translateY(0);
+        transform: translate(53px, 20px);
     }
     to {
-        transform: translateY(-20px);
+        transform: translate(-10px, -70px);
     }
 }
 </style>

diff --git a/dsc/mag/src/sass/mag201909/components/_main-header.scss b/dsc/mag/src/sass/mag201909/components/_main-header.scss
@@ -18,7 +18,7 @@ main {
             @media (min-width: $content-width) {
                 padding-bottom: 45px;
                 background-image: image-url('mag201909/header-bg.png');
-                background-position: 0 -290px;
+                background-position: -50px -290px;
             }
         }
         .content {
@@ -32,7 +32,7 @@ main {
                 align-items: flex-end;
             }
             @media (min-width: $content-width) {
-                margin-right: 0;
+                margin-right: 80px;
                 max-width: 427px;
                 transform: translateX(0);
                 align-items: flex-start;

diff --git a/dsc/mag/components/mag201909/carousel1.vue b/dsc/mag/components/mag201909/carousel1.vue
@@ -37,12 +37,11 @@ module.exports = {
         return {
             swiperOptionA: {
                 loop: true,
-                autoHeight: true,
                 slidesPerView: 3,
-                autoplay: {
-                    disableOnInteraction: false,
-                    delay: 5000
-                },
+                // autoplay: {
+                //     disableOnInteraction: false,
+                //     delay: 5000
+                // },
                 pagination: {
                     el: '.swiper-pagination',
                     clickable: true

diff --git a/dsc/mag/src/sass/mag201909/components/_carousel1.scss b/dsc/mag/src/sass/mag201909/components/_carousel1.scss
@@ -20,6 +20,7 @@ main .carousel1 {
         }
     }
     .swiper-slide {
+        height: auto;
         transition: transform .4s;
         transform: scale(.7);
         @media (max-width: $breakpoint) {
@@ -135,6 +136,7 @@ main .carousel1 {
         margin: 0 auto;
         padding: 40px;
         max-width: 600px;
+        height: 100%;
         border-radius: 10px;
         background-color: #239995;
         justify-content: center;

diff --git a/dsc/mag/components/mag201909/carousel2.vue b/dsc/mag/components/mag201909/carousel2.vue
@@ -78,7 +78,6 @@ module.exports = {
         enableSwiper: function () {
             this.mySwiper = new Swiper(this.$refs.swiper, {
                 loop: true,
-                autoHeight: true,
                 pagination: {
                     el: ".swiper-pagination",
                     clickable: true,

diff --git a/dsc/mag/src/sass/mag201909/components/_carousel2.scss b/dsc/mag/src/sass/mag201909/components/_carousel2.scss
@@ -13,6 +13,7 @@ main .carousel2 {
         }
     }
     .swiper-slide {
+        height: auto;
         padding: 0 15px;
         transition: transform .5s;
         transform: translate3d(0,100px,0) scale(.6);

diff --git a/dsc/mag/components/mag201909/storm.vue b/dsc/mag/components/mag201909/storm.vue
@@ -29,7 +29,7 @@ module.exports = {
 .storm {
     position: absolute;
     top: -115px;
-    left: 78px;
+    left: 28px;
     overflow: hidden;
     width: 555px;
     height: 522px;
